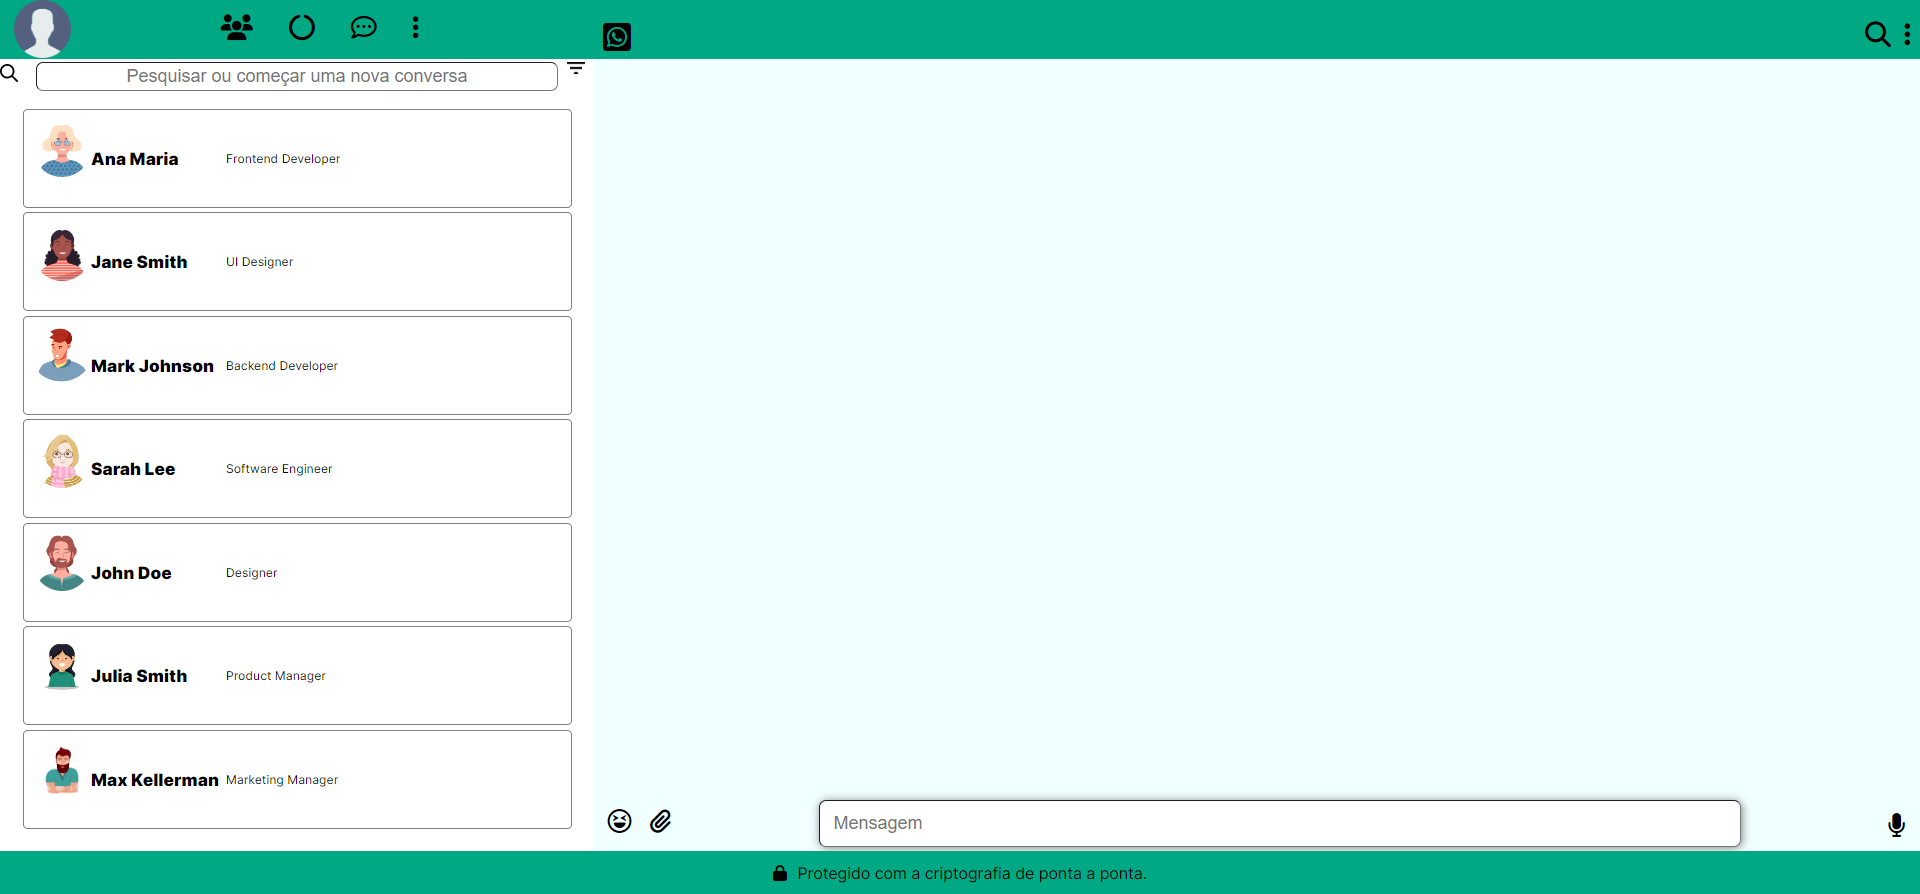
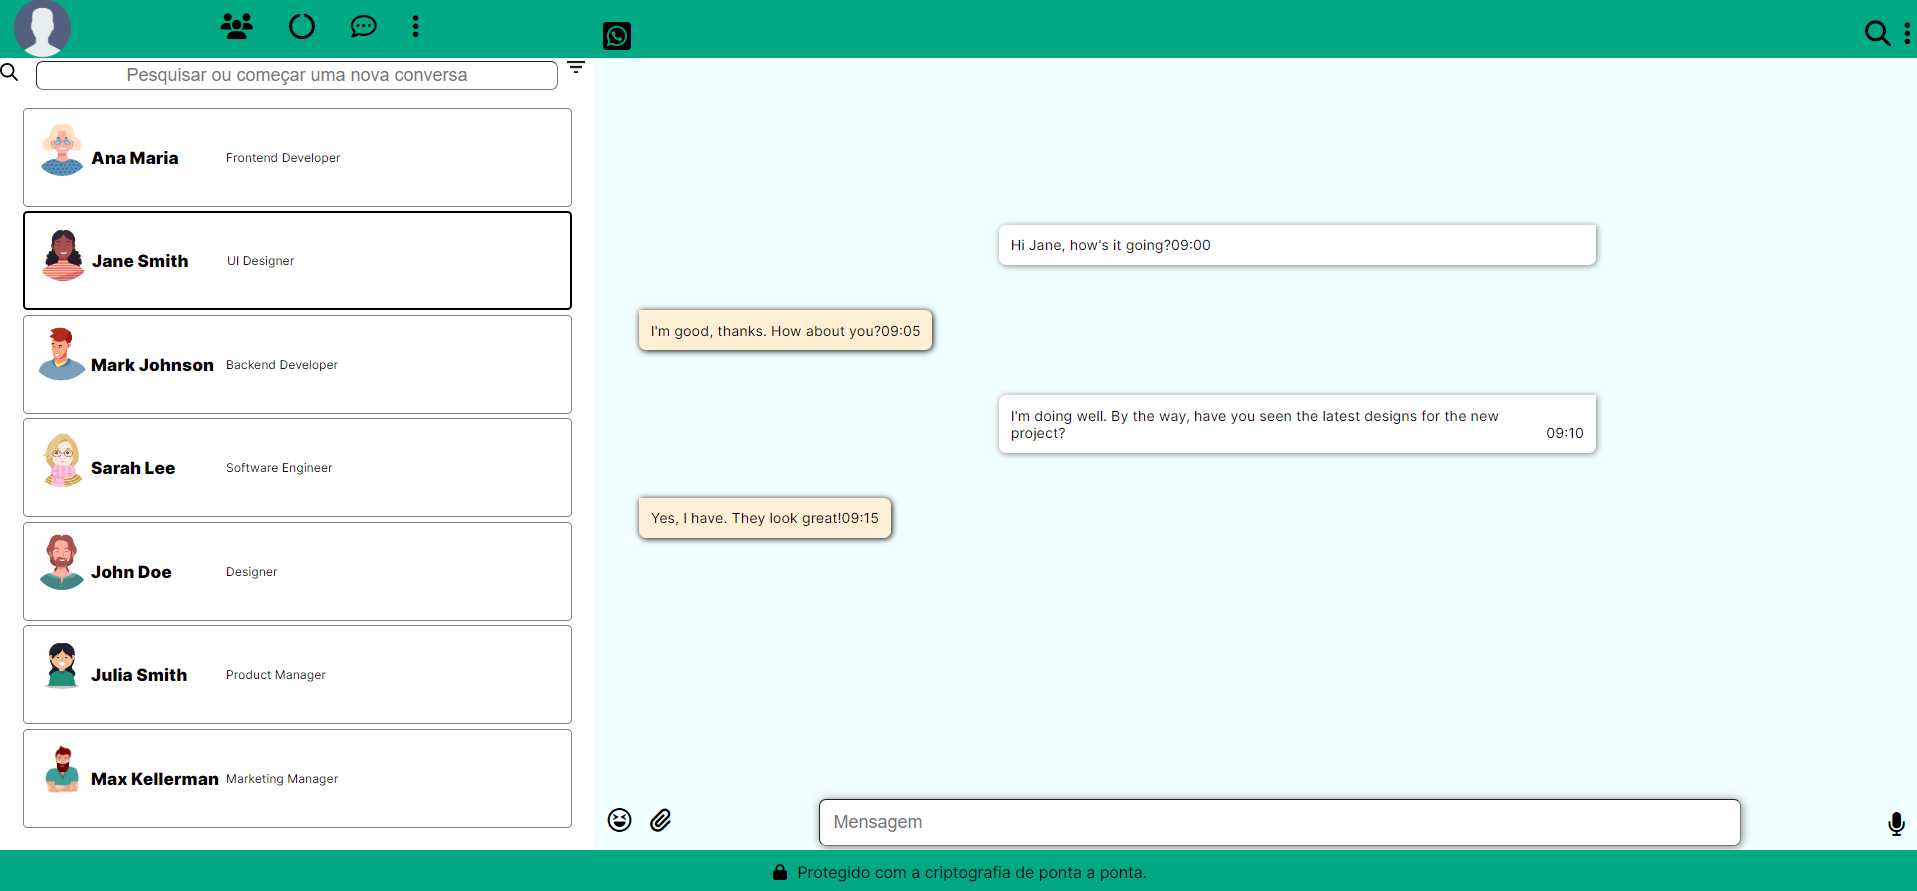
README completo

diff --git a/ds2m/letícia_evelin_aguiar_e_silva/README.md b/ds2m/letícia_evelin_aguiar_e_silva/README.md
@@ -2,7 +2,7 @@
 
 |      MOBILE         |          DESKTOP       |
 |:-------------------:|:-----------------------:
-|![](./img/mobile.png)|![](./img/)|
+|![](./img/mobile.png)|![](./img/desktop.png)|
 |                     |                        |
 
 ### [Clique aqui](https://leticia-evelin.github.io/whatsApp-senai-1-2023/ds2m/let%C3%ADcia_evelin_aguiar_e_silva/) para acessar o site!
